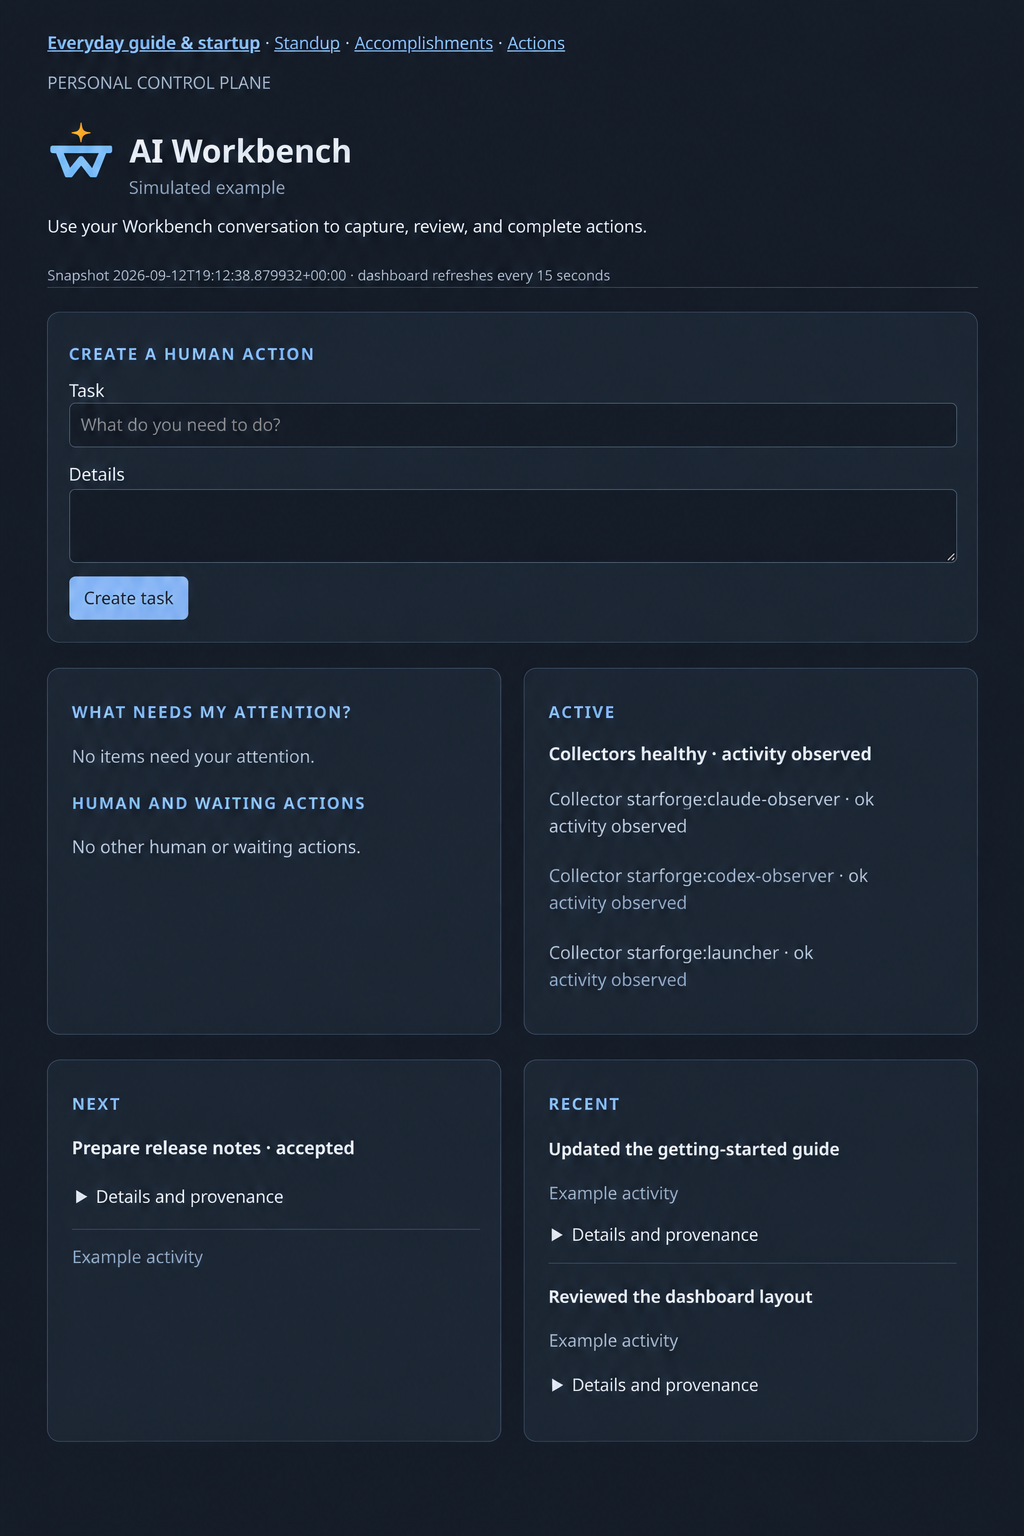
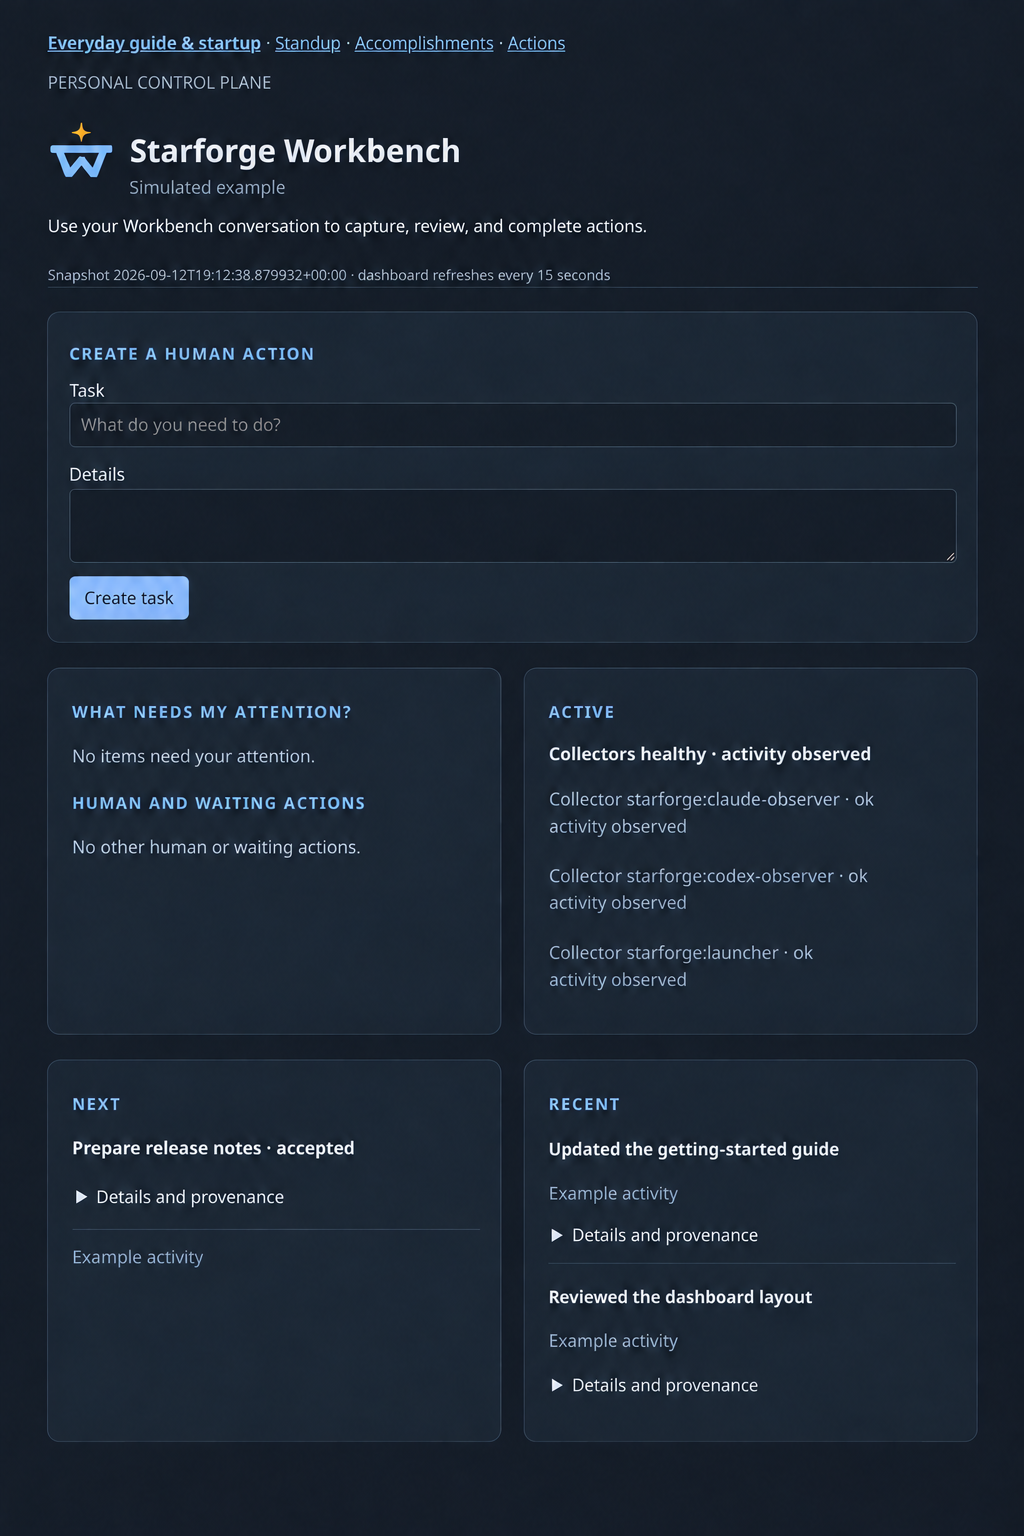
Refresh simulated screenshot with Starforge branding (refs #37)

diff --git a/README.md b/README.md
@@ -5,7 +5,7 @@ For everyday use, open **Everyday guide & startup** from the dashboard navigatio
 
 A personal workbench for keeping human commitments, AI activity, and daily attention in one place.
 
-![Simulated AI Workbench dashboard showing task capture, attention, active collectors, next actions, and recent activity](docs/images/dashboard-simulated.png)
+![Simulated Starforge Workbench dashboard showing task capture, attention, active collectors, next actions, and recent activity](docs/images/dashboard-simulated.png)
 
 *Simulated screenshot composed from two dashboard views, with illustrative activity. It is not a live status report.*
 
